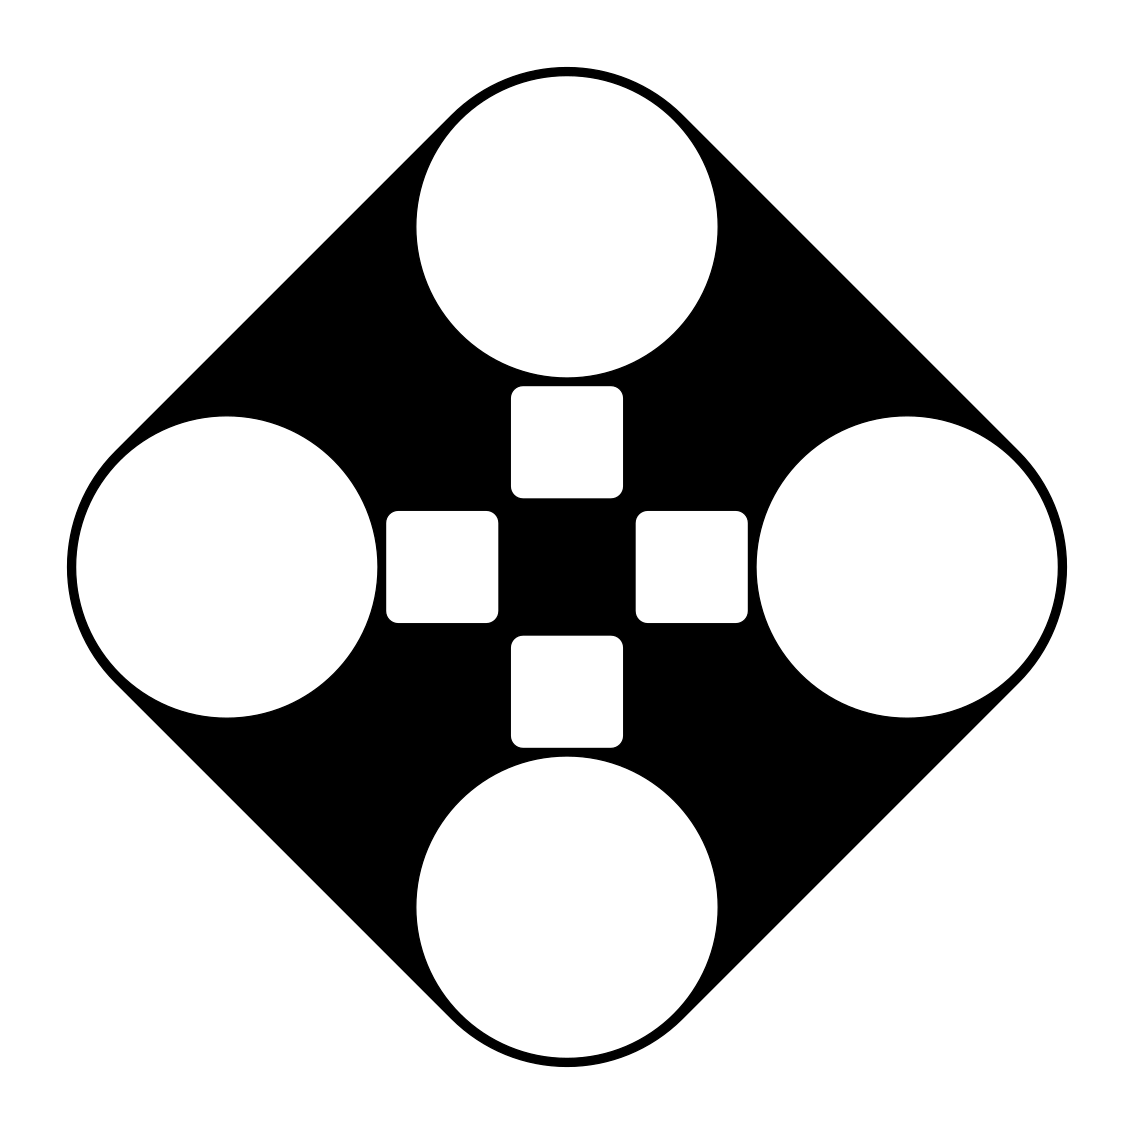
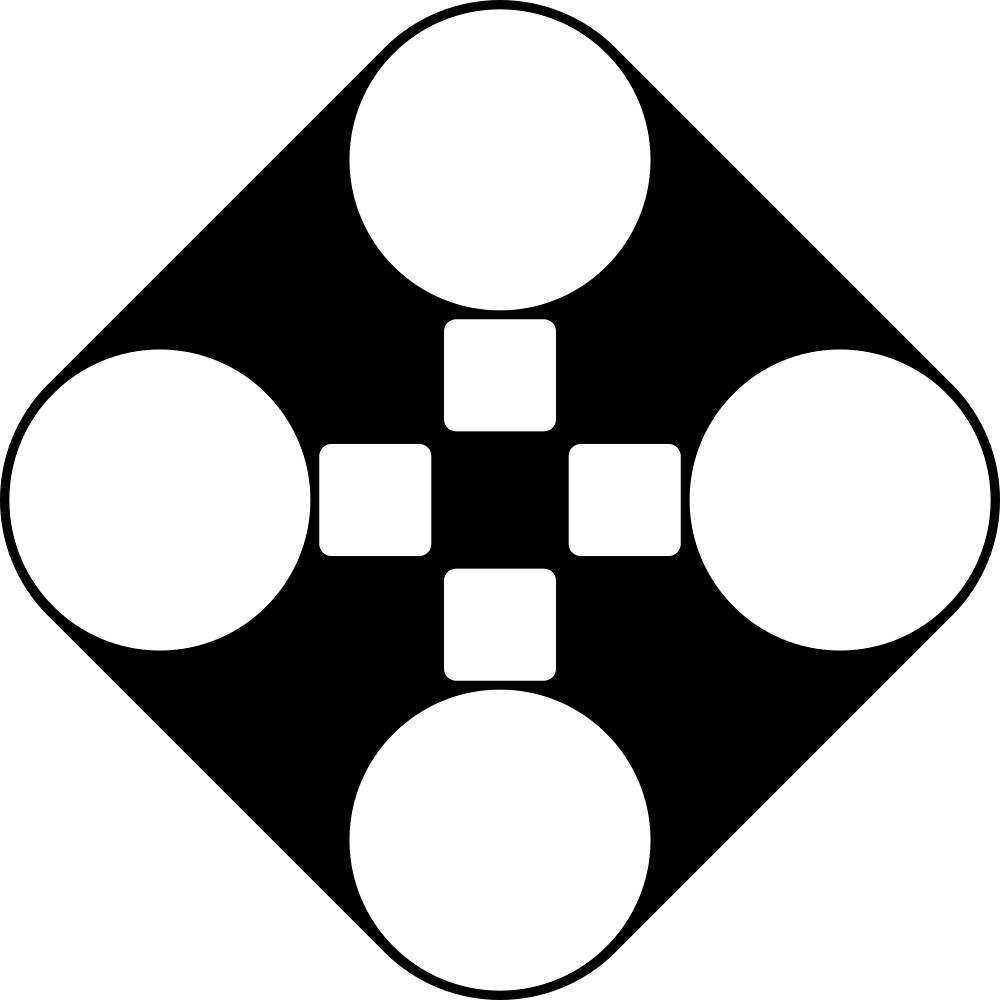
[wip]
* reexport png to get rid of transparent border
* fixing some script issues
* tried to replace imgui image with addimage and imdrawlist

diff --git a/src/ui/ui_renderer.cpp b/src/ui/ui_renderer.cpp
@@ -11,6 +11,8 @@
 #include "stb_image.h"
 
 #define IMGUI_DEFINE_MATH_OPERATORS
+#include "imgui_internal.h"
+
 #include "event/sink_event.h"
 #include "handle/set_data.h"
 #include "setting/mcm_setting.h"
@@ -194,24 +196,90 @@ namespace ui {
 
 
         ImGui::SetNextWindowSize(ImVec2(screen_size_x, screen_size_y));
-        //ImGui::SetNextWindowPos(ImVec2(0.f, 0.f));
+        ImGui::SetNextWindowPos(ImVec2(0.f, 0.f));
 
-        const auto width_setting = config::mcm_setting::get_hud_image_position_width();
+        /*const auto width_setting = config::mcm_setting::get_hud_image_position_width();
         const auto height_setting = config::mcm_setting::get_hud_image_position_height();
 
         if (width_setting > screen_size_x || height_setting > screen_size_y) {
             ImGui::SetNextWindowPos(ImVec2(0.f, 0.f));
         } else {
             ImGui::SetNextWindowPos(ImVec2(width_setting, height_setting));
-        }
+        }*/
 
         ImGui::Begin("lamas_tiny_hud", nullptr, window_flag);
 
         //config settings are read after each mcm close event or when on data loaded on startup
-        ImGui::Image(image_struct.texture,
+        /*ImGui::Image(image_struct.texture,
             ImVec2(static_cast<float>(image_struct.width) * config::mcm_setting::get_hud_image_scale_width(),
-                static_cast<float>(image_struct.height) * config::mcm_setting::get_hud_image_scale_height()));
+                static_cast<float>(image_struct.height) * config::mcm_setting::get_hud_image_scale_height()));*/
 
+        //maybe use addimage and, change the next window pos to 0, 0
+        //need to take a closer look at that
+        //ImDrawList::AddImage();
+
+        //ImDrawList* draw_list = ImGui::GetWindowDrawList();
+        /*draw_list->AddImage(image_struct.texture, ImVec2(static_cast<float>(image_struct.width) * config::mcm_setting::get_hud_image_scale_width(),
+                static_cast<float>(image_struct.height) * config::mcm_setting::get_hud_image_scale_height()));*/
+
+        //draw_list->AddImage(image_struct.texture,
+
+        /*ImGui::GetWindowDrawList()->AddImage(image_struct.texture, ImVec2(0,0),
+        ImVec2(screen_size_x, screen_size_y));*/
+
+        /*auto const center = ImVec2(
+        0.5f * std::abs(screen_size_x),
+        0.5f * std::abs(screen_size_y));*/
+
+        ImDrawList* draw_list = ImGui::GetWindowDrawList();
+
+        constexpr auto angle = 0.f;
+
+
+        const auto width_setting = config::mcm_setting::get_hud_image_position_width();
+        const auto height_setting = config::mcm_setting::get_hud_image_position_height();
+
+        ImVec2 center;
+        if (width_setting > screen_size_x || height_setting > screen_size_y) {
+            center = ImVec2(0.f, 0.f);
+        } else {
+            center = ImVec2(width_setting, height_setting);
+        }
+
+
+        //const auto size = ImVec2(static_cast<float>(image_struct.width), static_cast<float>(image_struct.height));
+        const auto size = ImVec2(
+            static_cast<float>(image_struct.width) * config::mcm_setting::get_hud_image_scale_width(),
+            static_cast<float>(image_struct.height) * config::mcm_setting::get_hud_image_scale_height());
+
+        const float cos_a = cosf(angle);
+        const float sin_a = sinf(angle);
+        const ImVec2 pos[4] =
+        {
+            center + ImRotate(ImVec2(-size.x * 0.5f, -size.y * 0.5f), cos_a, sin_a),
+            center + ImRotate(ImVec2(+size.x * 0.5f, -size.y * 0.5f), cos_a, sin_a),
+            center + ImRotate(ImVec2(+size.x * 0.5f, +size.y * 0.5f), cos_a, sin_a),
+            center + ImRotate(ImVec2(-size.x * 0.5f, +size.y * 0.5f), cos_a, sin_a)
+
+        };
+        constexpr ImVec2 uvs[4] =
+        {
+            ImVec2(0.0f, 0.0f),
+            ImVec2(1.0f, 0.0f),
+            ImVec2(1.0f, 1.0f),
+            ImVec2(0.0f, 1.0f)
+        };
+
+        draw_list->AddImageQuad(image_struct.texture,
+            pos[0],
+            pos[1],
+            pos[2],
+            pos[3],
+            uvs[0],
+            uvs[1],
+            uvs[2],
+            uvs[3],
+            IM_COL32_WHITE);
 
         ImGui::End();
     }

diff --git a/src/papyrus/papyrus.cpp b/src/papyrus/papyrus.cpp
@@ -5,6 +5,7 @@
 #include "magic/power.h"
 #include "magic/shout.h"
 #include "magic/spell.h"
+#include "setting/mcm_setting.h"
 #include "ui/ui_renderer.h"
 #include "util/constant.h"
 #include "util/string_util.h"
@@ -15,6 +16,7 @@ namespace papyrus {
 
     void hud_mcm::on_config_close(RE::TESQuest*) {
         logger::info("on config close"sv);
+        config::mcm_setting::read_setting();
         handle::set_data::set_slot_data();
 
         index_ = util::selection_type::unset;
